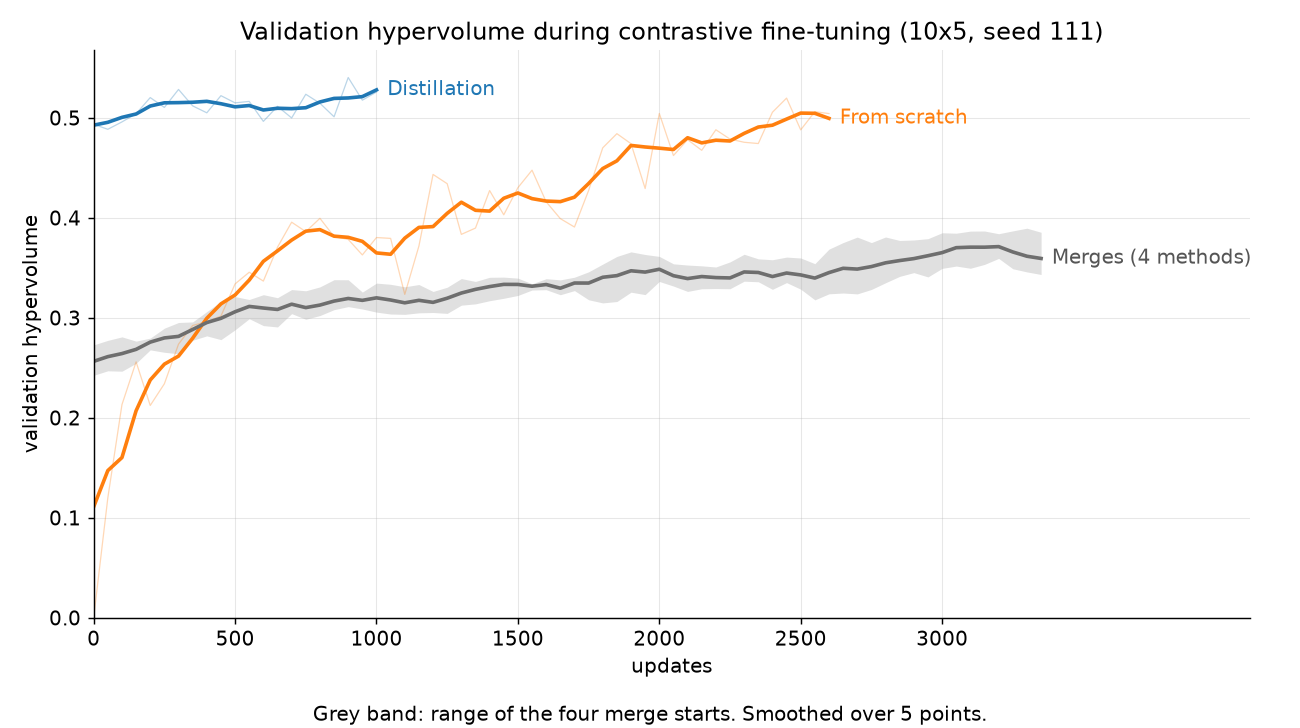
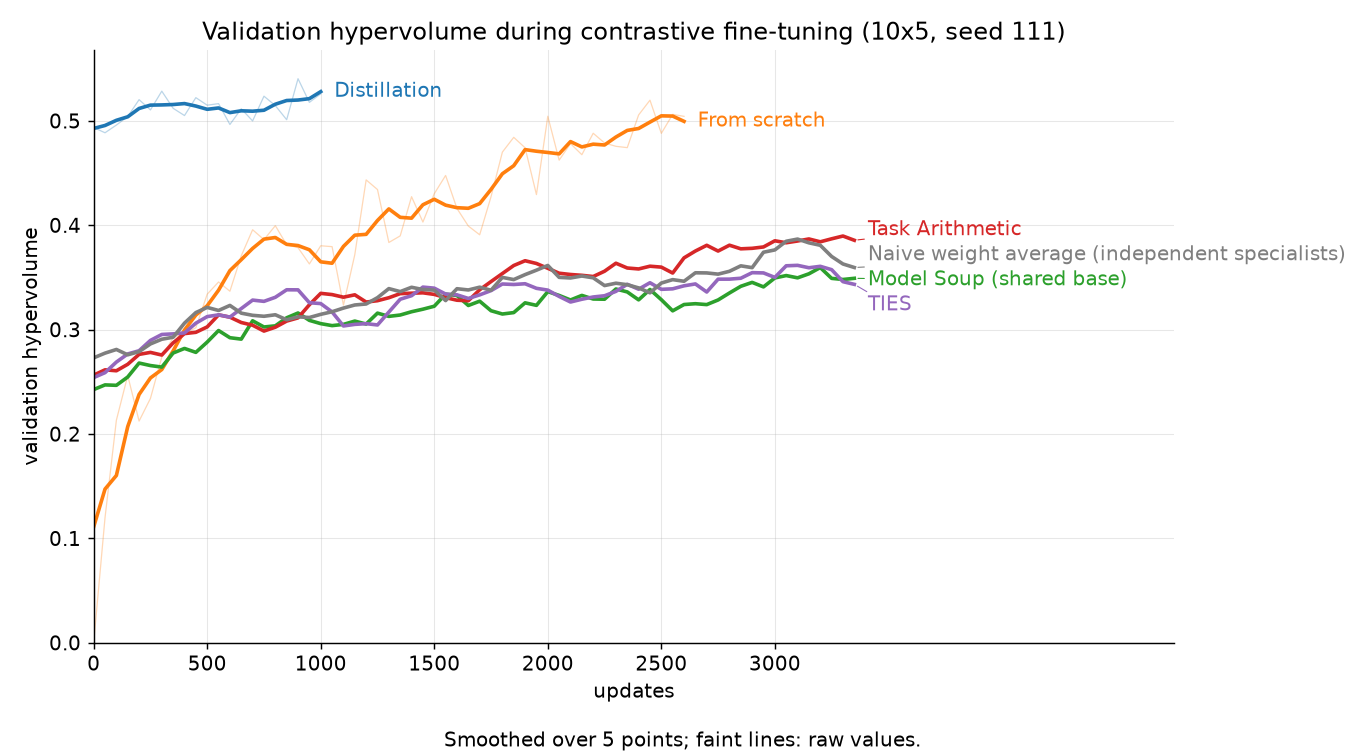
merge categories v3: summary figure shows each start as its own line
Redrawn from saved results only; no numbers changed.

Claude-Session: https://claude.ai/code/session_01Rcu6f737di34xSocjiJkEU

Changed region(s): [[0.0, 0.0604, 0.9846, 0.9368], [0.1538, 0.0302, 0.8615, 0.0604], [0.2462, 0.967, 0.7692, 0.9973]]

diff --git a/tools/analyze_merge_categories_v3.py b/tools/analyze_merge_categories_v3.py
@@ -98,36 +98,39 @@ def rolling(y, w=5):
 
 
 def plot_summary(R, path):
-    """One panel: Distillation and From scratch as lines, the four merge starts as one band (min-max of their smoothed
-    curves at each update) with their mean."""
+    """One panel, every start as its own smoothed line (raw values faint behind Distillation and From scratch),
+    each labelled at its right end."""
     plt.rcParams.update({"font.size": 11})
-    fig, ax = plt.subplots(figsize=(10, 5.6), facecolor="white")
+    fig, ax = plt.subplots(figsize=(10.5, 5.8), facecolor="white")
     ax.set_facecolor("white"); ax.grid(alpha=.3, lw=.6)
     ends = []
-    for x, col, name in (("CLD", "#1f77b4", "Distillation"), ("CLB", "#ff7f0e", "From scratch")):
+    for x, col, raw in (("CLD", "#1f77b4", True), ("CLB", "#ff7f0e", True), ("SBAVG", "#2ca02c", False),
+                        ("TA", "#d62728", False), ("TIES", "#9467bd", False), ("CLE", "#7f7f7f", False)):
         u, hv, _, _ = AW.val_series(R[x])
-        ax.plot(u, hv, color=col, lw=.7, alpha=.3)
+        if raw:
+            ax.plot(u, hv, color=col, lw=.7, alpha=.3)
         sm = rolling(hv); ax.plot(u, sm, color=col, lw=2)
-        ends.append((u[-1], sm[-1], name, col))
-    merges = [AW.val_series(R[x]) for x in ("SBAVG", "TA", "TIES", "CLE")]
-    u = merges[0][0]
-    if any(m[0] != u for m in merges):
-        raise ValueError("merge runs were validated at different updates")
-    sm = np.array([rolling(m[1]) for m in merges])
-    ax.fill_between(u, sm.min(0), sm.max(0), color="#9a9a9a", alpha=.3, lw=0)
-    ax.plot(u, sm.mean(0), color="#6e6e6e", lw=2)
-    ends.append((u[-1], sm.mean(0)[-1], "Merges (4 methods)", "#555555"))
-    for xe, ye, name, col in ends:
-        ax.annotate(name, (xe, ye), xytext=(6, 0), textcoords="offset points", va="center", color=col, fontsize=11)
+        ends.append([u[-1], sm[-1], sm[-1], SHORT[x], col])
+    gap = 0.024                                                  # minimum vertical spacing of end labels (HV units)
+    for xe in sorted({e[0] for e in ends}):                      # labels ending at the same update: spread them apart
+        grp = sorted([e for e in ends if e[0] == xe], key=lambda e: e[1])
+        for lo, hi in zip(grp, grp[1:]):
+            hi[2] = max(hi[2], lo[2] + gap)
+        shift = (sum(e[1] for e in grp) - sum(e[2] for e in grp)) / len(grp)
+        for e in grp:
+            e[2] += shift
+    for xe, ye, yl, name, col in ends:
+        ax.annotate(name, (xe, ye), xytext=(xe + 60, yl), textcoords="data", va="center", color=col, fontsize=11,
+                    arrowprops=dict(arrowstyle="-", color=col, lw=.6, shrinkA=0, shrinkB=2) if abs(yl - ye) > 1e-3 else None)
     xmax = max(e[0] for e in ends)
-    ax.set_xlim(0, xmax * 1.22)                                  # room for the end labels
+    ax.set_xlim(0, xmax * 1.42)                                  # room for the end labels
     ax.set_xticks(np.arange(0, xmax + 1, 500))
     ax.set_ylim(bottom=0)
     ax.set_xlabel("updates"); ax.set_ylabel("validation hypervolume")
     ax.set_title("Validation hypervolume during contrastive fine-tuning (10x5, seed 111)")
     for side in ("top", "right"):
         ax.spines[side].set_visible(False)
-    fig.text(0.5, 0.01, "Grey band: range of the four merge starts. Smoothed over 5 points.", ha="center", fontsize=11)
+    fig.text(0.5, 0.01, "Smoothed over 5 points; faint lines: raw values.", ha="center", fontsize=11)
     fig.tight_layout(rect=(0, 0.04, 1, 1))
     fig.savefig(path, dpi=130, facecolor="white"); plt.close(fig)
 
